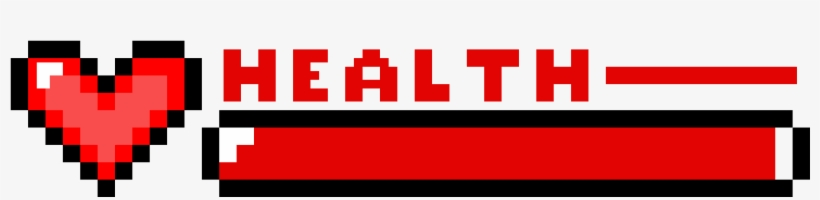
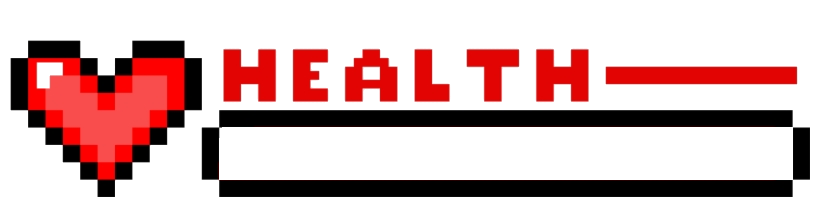
Adding HP/Mana bar numbers, still need progress bar

Changed region(s): [[0.2439, 0.63, 0.9756, 0.9]]

diff --git a/svelte/src/components/elements/Enemy.svelte b/svelte/src/components/elements/Enemy.svelte
@@ -2,25 +2,47 @@
     export let enemy:Enemy;
 </script>
 
-<div class="enemy-container">
-    <img src="./assets/images/health.png">
-    <img src="./assets/images/mana.png">
-    <img class="enemy" src={enemy.image} alt="enemy"/>    
+<div class="container">
+    <div class="container2">
+        <img src="./assets/images/health.png">
+        <div class="centered" style="color: red">{enemy.hp}/{enemy.hp}</div>
+    </div>
+    <div class="container2">
+        <img src="./assets/images/mana.png">
+        <div class="centered" style="color: cornflowerblue">{enemy.time}/{enemy.time}</div>
+    </div>
+    
+    <img class="enemy" src={enemy.image} alt="enemy"/>   
 </div>
-
+     
 <style lang="scss">
-    .enemy-container{
-        background-color: #303030;
+    .container{
         display: flex;
+        background-color: #303030;
         flex-direction: column;
-        align-items: center;
-        justify-content: center;
-        padding: 20px;
         flex: 1 1 auto;
 
-        .enemy{
-            max-width: 100%;
+        .container2 {
+            position: relative;
+            text-align: center;
+            
+            .centered {
+                position: absolute;
+                top: 72.5%;
+                left: 62.5%;
+                transform: translate(-50%, -50%);
+                font-size: 64px;
+                border: 5px solid #555; 
+            }
+
+        }
+        .enemy{        
+            border: 5px solid #555; 
+            flex: 1;
         }
     }
+
+
+    
 
 </style>

diff --git a/svelte/src/components/Game.svelte b/svelte/src/components/Game.svelte
@@ -44,7 +44,7 @@
     }
 
     onMount(():void => {
-        playSound('nggyu');
+        //playSound('nggyu');
     });
 
     onDestroy(():void => {
